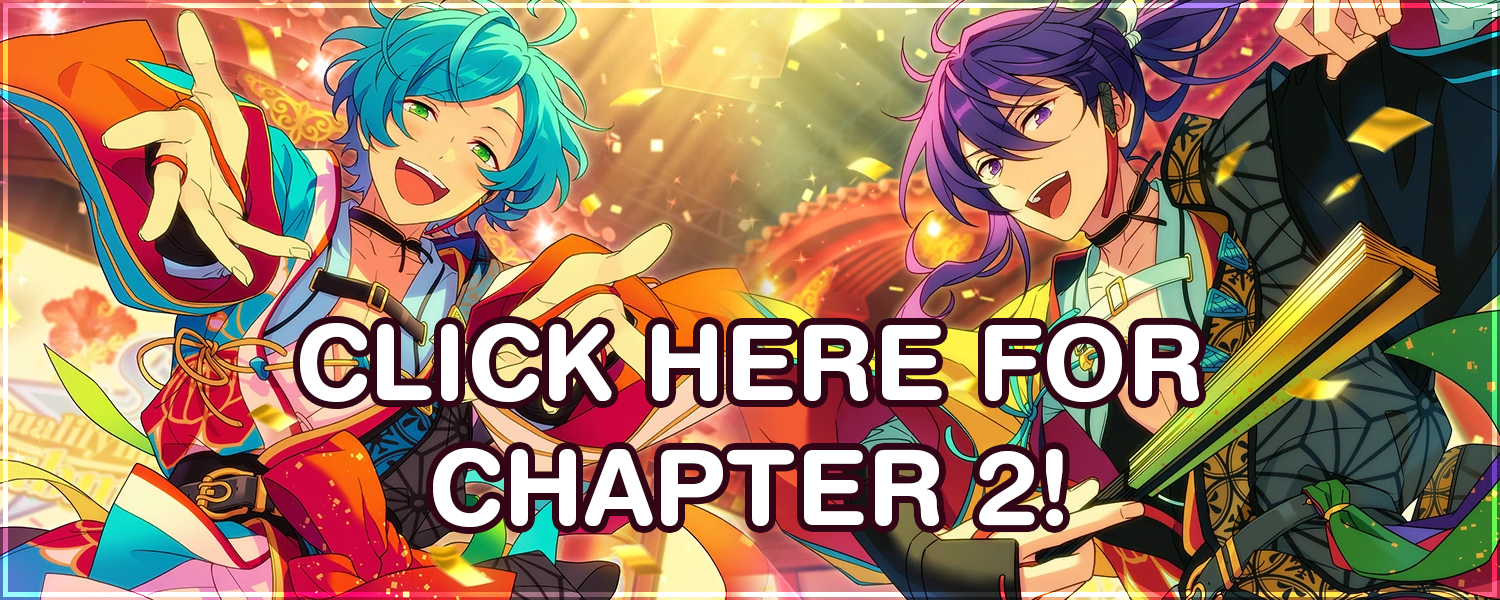
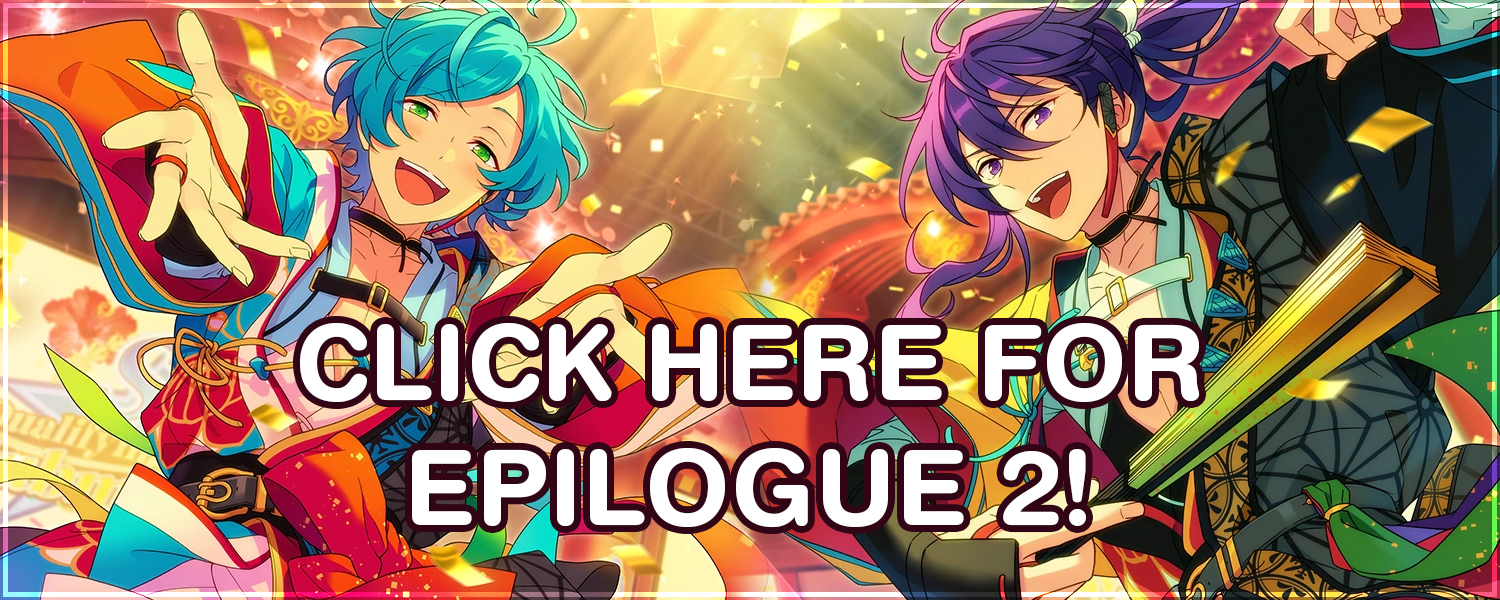
updated

Changed region(s): [[0.2453, 0.72, 0.736, 0.9]]

diff --git a/source/css/esexp.css b/source/css/esexp.css
@@ -367,7 +367,7 @@ Past Stories
   --icon:url("https://cdn.jsdelivr.net/gh/310mc/css@latest/img/soumapast_angry.png");
 }
 [character="Souma"][frown] {
-  --icon:url("https://cdn.jsdelivr.net/gh/310mc/css@latest/img/soumapast_frown.png");
+  --icon:url("https://cdn.jsdelivr.net/gh/310mc/css@latest/img/souma_frown.png");
 }
 
 [character="Keito"][v2] {

diff --git a/source/_posts/submarine/minitalk/chiaki_1.md b/source/_posts/submarine/minitalk/chiaki_1.md
@@ -1,6 +1,6 @@
 ---
 title: "Submarine – Chiaki Mini Talk: Okinawa Red!"
-date: 2021/12/4 9:00:00
+date: 2023/1/15 9:00:00
 categories:
 - [Enstars, Chiaki]
 - [Enstars, Shinobu]
@@ -8,7 +8,7 @@ categories:
 - [Enstars, Tetora]
 tags:
 - Mini Talk
-description: "[ES!!] Chiaki's second Mini Talk from Submarine. From multiple POVs."
+description: "[ES!!] Chiaki's first Mini Talk from Submarine. From multiple POVs."
 ---
 <div class="three-wrapper" style="--storyColor:#965e7d;--storyColor-rgb:150,94,125;--storyColor-h:326.8;--storyColor-s: 23%;--storyColor-l:47.8%;">
     <div class="info-area">
@@ -106,7 +106,7 @@ Since you’re the same age as him, I’d be happy to get your advice on which t
 
 {% img /img/es/eventstory/submarine/minitalk_chiaki1_2.jpg %}
 
-{% bubble Chiaki %}
+{% bubble Chiaki frown %}
 You can't have a ryokan trip without a pillow fight… I do want to agree with that, but—
 
 Comet Show only happened a few weeks ago, so I feel like we should have a discussion with each other first.
@@ -120,7 +120,7 @@ With that being said, I'd like to ask you something, Kanata. Where am I going wr
             perhaps the Timing.
         </div>
         <div class="minitalk-option_content">
-            {% bubble Chiaki %}
+            {% bubble Chiaki thinking %}
             Hm… so what I discussed earlier was also simply just the wrong timing?
 
             But SS is an important event… We can't keep dancing around the topic, can we…?
@@ -132,7 +132,7 @@ With that being said, I'd like to ask you something, Kanata. Where am I going wr
             please read the Room.
         </div>
         <div class="minitalk-option_content">
-            {% bubble Chiaki %}
+            {% bubble Chiaki frown %}
             Oh… so that's why you suggested the pillow fight, huh…?
 
             I keep talking about serious topics so much, that I'm being seen as someone who can't read the r—… That's not what you meant?
@@ -144,7 +144,7 @@ With that being said, I'd like to ask you something, Kanata. Where am I going wr
             let's not Talk about that right now.
         </div>
         <div class="minitalk-option_content">
-            {% bubble Chiaki %}
+            {% bubble Chiaki sad2 %}
             Ah, even discussing it is dismissed… Working towards a solution really is too difficult right now after all, huh…
 
             Alright, I'll try and figure out where I went wrong on my own for now! Sorry for taking up your time, Kanata.
@@ -155,7 +155,9 @@ With that being said, I'd like to ask you something, Kanata. Where am I going wr
 
 #### <div mt="rare"></div> 3/3
 
-{% bubble Chiaki %}
+{% img /img/es/eventstory/submarine/minitalk_chiaki1_3.jpg %}
+
+{% bubble Chiaki curious %}
 Oh yeah, where'd Kanata go?
 
 He tends to go to watersides at every opportunity, so maybe he's gone to bathe in the sea?

diff --git a/source/_posts/submarine.md b/source/_posts/submarine.md
@@ -295,26 +295,26 @@ description: "[ES!!] When the local idols in Okinawa show their determination to
                         </li>
                         <li>
                             <span>Nirai-Kanai</span>
-                            <a href="BLOGLINK" id="none">1</a>
-                            <a href="BLOGLINK" id="none">2</a>
-                            <a href="nirai_kanai/#Chapter-3" id="none">3</a>
-                            <a href="nirai_kanai/#Chapter-4" id="none">4</a>
-                            <a href="nirai_kanai/#Chapter-5" id="none">5</a>
-                            <a href="nirai_kanai/#Chapter-6" id="none">6</a>
-                            <a href="nirai_kanai/#Chapter-7" id="none">7</a>
-                            <a href="nirai_kanai/#Chapter-8" id="none">8</a>
-                            <a href="nirai_kanai/#Chapter-9" id="none">9</a>
-                            <a href="nirai_kanai/#Chapter-10" id="none">10</a>
-                            <a href="BLOGLINK" id="none">11</a>
-                            <a href="nirai_kanai/#Chapter-12" id="none">12</a>
-                            <a href="nirai_kanai/#Chapter-13" id="none">13</a>
-                            <a href="nirai_kanai/#Chapter-14" id="none">x</a>
+                            <a href="BLOGLINK" id="none">x</a>
+                            <a href="BLOGLINK" id="none">x</a>
+                            <a href="LINK" id="none">x</a>
+                            <a href="LINK" id="none">x</a>
+                            <a href="LINK" id="none">x</a>
+                            <a href="LINK" id="none">x</a>
+                            <a href="LINK" id="none">x</a>
+                            <a href="LINK" id="none">x</a>
+                            <a href="LINK" id="none">x</a>
+                            <a href="LINK" id="none">x</a>
+                            <a href="BLOGLINK" id="none">x</a>
+                            <a href="LINK" id="none">x</a>
+                            <a href="LINK" id="none">x</a>
+                            <a href="LINK" id="none">x</a>
                         </li>
                         <li>
                             <span>Epilogue</span>
-                            <a href="epilogue/#Chapter-1" id="none">x</a>
+                            <a href="LINK" id="none">x</a>
                             <a href="BLOGLINK" id="none">x</a>
-                            <a href="epilogue/#Chapter-3" id="none">x</a>
+                            <a href="LINK" id="none">x</a>
                             <a href="BLOGLINK" id="none">x</a>
                             <a href="BLOGLINK" id="none">x</a>
                         </li>

diff --git a/source/_posts/submarine/minitalk/chiaki_2.md b/source/_posts/submarine/minitalk/chiaki_2.md
@@ -1,6 +1,6 @@
 ---
 title: "Submarine – Chiaki Mini Talk: Troubled Hero"
-date: 2021/12/4 9:00:00
+date: 2023/1/15 9:05:00
 categories:
 - [Enstars, Chiaki]
 - [Enstars, Midori]
@@ -143,7 +143,7 @@ I've been having my own worries about Ryuseitai, so maybe I could get an idea of
             Is this really the time to talk about this?
         </div>
         <div class="minitalk-option_content">
-            {% bubble Chiaki %}
+            {% bubble Chiaki awkward %}
             Sorry. Don't worry about it if it's too heavy. It's a bad habit of mine to stick my nose in other people's business.
 
             But I just don't know what to do anymore about Ryuseitai… I've just been stuck in a loop trying to figure it out on my own.
@@ -157,11 +157,11 @@ I've been having my own worries about Ryuseitai, so maybe I could get an idea of
 {% img /img/es/eventstory/submarine/minitalk_chiaki2_3.jpg %}
 
 {% bubble Chiaki %}
-(The Okinawan idols are asking for Ryuseitai's help.)
+<th>(The Okinawan idols are asking for Ryuseitai's help.)</th>
 
-(Personally, I'd like to go and help them, but I don't think the rest of my unit members agree with me, what with the current circumstances…)
+<th>(Personally, I'd like to go and help them, but I don't think the rest of my unit members agree with me, what with the current circumstances…)</th>
 
-(I have to do <em>something</em>, though. Maybe I should talk to someone about it…)
+<th>(I have to do <em>something</em>, though. Maybe I should talk to someone about it…)</th>
 {% endbubble %}
 
 <div class="minitalk" character="Chiaki">
@@ -182,7 +182,7 @@ I've been having my own worries about Ryuseitai, so maybe I could get an idea of
             (I'll talk to Nagumo.)
         </div>
         <div class="minitalk-option_content">
-            {% bubble Chiaki %}
+            {% bubble Chiaki sad %}
             Mm, talking to Nagumo sounds like a good idea. I can talk to him as an equal, as he's also had Ryuseitai entrusted to him for a while.
 
             But… I did something awful to him at Comet Show… I don't know if we'll be able to reach an agreement.
@@ -194,7 +194,7 @@ I've been having my own worries about Ryuseitai, so maybe I could get an idea of
             (Someone outside of Ryuseitai…)
         </div>
         <div class="minitalk-option_content">
-            {% bubble Chiaki %}
+            {% bubble Chiaki serious %}
             …Yeah, there are far too many local idols in trouble right now — The issue is too large for only Ryuseitai to handle.
 
             That means the only other people I could talk to are Akatsuki. I hope that they're willing to help out as fellow colleagues…

diff --git a/source/_posts/submarine/epilogue.md b/source/_posts/submarine/epilogue.md
@@ -71,9 +71,9 @@ hidden: true
 
 {% img /img/es/eventstory/submarine/epch1_1.jpg %}
 
-{% note narration %}
-**Time:** A week later. During the qualifying round, the final stage…
-{% endnote %}
+<div class="msr-narration">
+    <p>A week later. During the qualifying round, the final stage…</p>
+</div>
 
 {% bubble Kanata v2 %}
 “hello okinawa, and welcome\~! *mensooore\~♪*”[^1]
@@ -294,7 +294,7 @@ If they take any longer, we’ll end up stealing the limelight!
 {% endbubble %}
 
 {% bubble Tetora worried %}
-“Ahh, that’s not <em>fair</em>! Morisawa-senpai just keeps stealing everything that matters to me…!”
+“Ahh, that’s not <em>fair!</em> Morisawa-senpai just keeps stealing everything that matters to me…!”
 {% endbubble %}
 
 {% bubble Shinobu worried %}
@@ -326,21 +326,21 @@ If they take any longer, we’ll end up stealing the limelight!
 {% endbubble %}
 
 {% bubble Chiaki %}
-(Heheh, Kiryu’s incredible as always. He’s always so sincere about being an idol.)
+<th>(Heheh, Kiryu’s incredible as always. He’s always so sincere about being an idol.)</th>
 
-(…I want to do the same—Let’s start from there.)
+<th>(…I want to do the same—Let’s start from there.)</th>
 
-(We aren’t back to square one, and we haven't lost anything, either… We’ll go back to our baseline, and build up from scratch.)
+<th>(We aren’t back to square one, and we haven't lost anything, either… We’ll go back to our baseline, and build up from scratch.)</th>
 
-(I’m good at that sort of thing, and I already know that everyone in Ryuseitai will work hard alongside me.)
+<th>(I’m good at that sort of thing, and I already know that everyone in Ryuseitai will work hard alongside me.)</th>
 {% endbubble %}
 
 {% img /img/es/eventstory/submarine/chiakibcg.jpg %}
 
 {% bubble Chiaki %}
-(I’ll never, ever forget the moment you guys rushed over to help me clean up that day, like it was the most natural thing to do.[^3] It meant everything to me.)
+<th>(I’ll never, ever forget the moment you guys rushed over to help me clean up that day, like it was the most natural thing to do. It meant everything to me.)[^3]</th>
 
-(The heroes I’ve waited so long for had finally arrived.)
+<th>(The heroes I’ve waited so long for had finally arrived.)</th>
 
 “♪\~♪\~♪”
 {% endbubble %}
